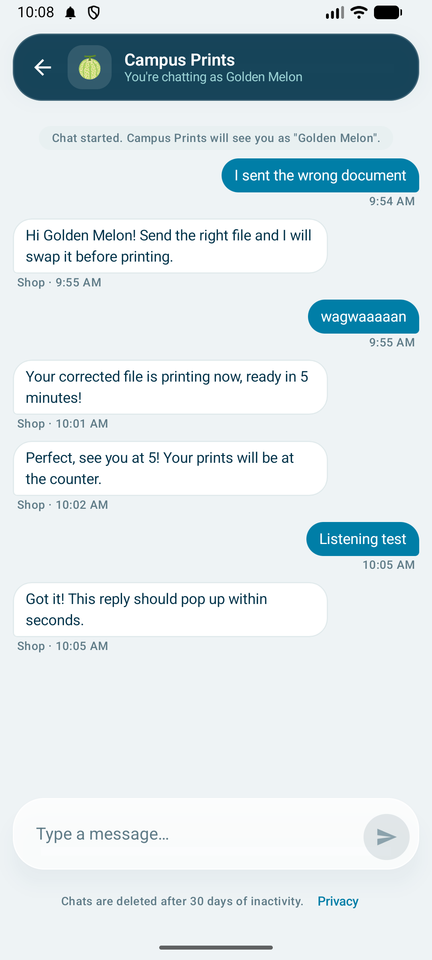
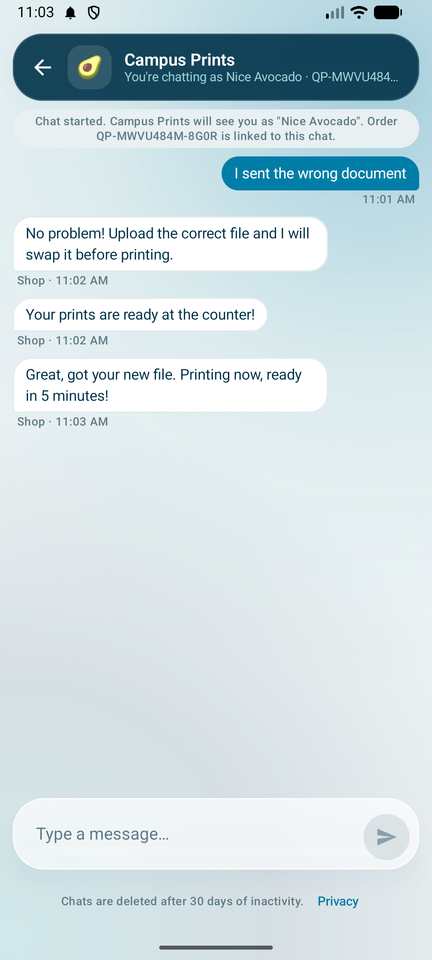
docs: refresh README and screenshots, polish glass UI

diff --git a/app/shop/[slug]/page.tsx b/app/shop/[slug]/page.tsx
@@ -23,6 +23,9 @@ import type { Shop, PriceBreakdown } from '@/types';
 const inputClass = "block w-full h-11 sm:h-10 rounded-xl border border-input bg-card px-3 text-sm focus:border-primary focus:ring-1 focus:ring-primary transition-shadow";
 const selectClass = "block w-full h-11 sm:h-10 rounded-xl border border-input bg-card px-3 text-sm focus:border-primary focus:ring-1 focus:ring-primary transition-shadow";
 
+/** The shop's background colour, slightly translucent so the ambient glass backdrop shows through. */
+const tint = (color: string) => `color-mix(in srgb, ${color} 78%, transparent)`;
+
 async function detectPdfPages(file: File): Promise<number> {
   if (!file.name.toLowerCase().endsWith('.pdf')) return 1;
   try {
@@ -209,7 +212,7 @@ export default function CustomerPortal() {
 
   if (page === 'done' && orderResult) {
     return (
-      <div className="light-brand fit-screen overflow-hidden flex items-center justify-center p-3" style={{ backgroundColor: shop.branding?.backgroundColor || '#fff' }}>
+      <div className="light-brand fit-screen overflow-hidden flex items-center justify-center p-3" style={{ backgroundColor: tint(shop.branding?.backgroundColor || '#ffffff') }}>
         <div className="page-enter max-w-sm w-full max-h-full overflow-y-auto text-center space-y-[clamp(0.5rem,1.8vh,1rem)] bg-card rounded-[2rem] p-[clamp(1rem,3vh,2rem)] shadow-[0_20px_50px_-12px_rgba(0,50,73,0.25)] border">
           <div className="h-[clamp(2.5rem,7vh,3.5rem)] aspect-square rounded-full bg-green-50 border border-green-100 flex items-center justify-center mx-auto">
             <Check className="h-1/2 w-1/2 text-green-600" />
@@ -253,7 +256,7 @@ export default function CustomerPortal() {
     ].filter(Boolean) as { icon: typeof Phone; label: string; href?: string }[];
 
     return (
-      <div className="fit-screen overflow-hidden flex flex-col p-3" style={{ backgroundColor: pageBg }}>
+      <div className="fit-screen overflow-hidden flex flex-col p-3" style={{ backgroundColor: tint(pageBg) }}>
         <div className="page-enter relative flex-1 min-h-0 overflow-hidden rounded-3xl bg-panel text-white flex items-center justify-center p-5">
           <div aria-hidden="true" className="pointer-events-none absolute -top-24 -right-24 h-80 w-80 rounded-full blur-3xl opacity-40" style={{ backgroundColor: brand }} />
           <div aria-hidden="true" className="pointer-events-none absolute -bottom-28 -left-16 h-72 w-72 rounded-full bg-[#80ced7]/20 blur-3xl" />
@@ -312,7 +315,7 @@ export default function CustomerPortal() {
   const stepIndex = STEPS.findIndex(([k]) => k === page);
 
   return (
-    <div className="light-brand fit-screen overflow-hidden flex flex-col p-3" style={{ backgroundColor: pageBg }}>
+    <div className="light-brand fit-screen overflow-hidden flex flex-col p-3" style={{ backgroundColor: tint(pageBg) }}>
       <style>{`.qp-shop button { border-radius: ${shop.branding?.buttonStyle === 'pill' ? '9999px' : shop.branding?.buttonStyle === 'square' ? '0' : '0.5rem'}; }`}</style>
       <div className="qp-shop w-full max-w-lg mx-auto flex-1 min-h-0 flex flex-col gap-3">
         <header className="page-enter relative flex-shrink-0 overflow-hidden rounded-3xl bg-panel text-white px-4 py-3 flex items-center gap-3">

diff --git a/app/globals.css b/app/globals.css
@@ -222,3 +222,47 @@ button:not(:disabled):active { transform: scale(0.98); }
 /* Keep the frost in dark mode (the flat rule above only removes decorative blurs/glows). */
 .dark .glass, .dark .glass-ink { -webkit-backdrop-filter: blur(18px); backdrop-filter: blur(18px); }
 @supports not (backdrop-filter: blur(1px)) { .glass { background-color: var(--card); } .glass-ink { background-color: var(--panel); } }
+
+/* ---------- Ambient backdrop (light mode): soft brand colour for the glass to refract ---------- */
+@keyframes drift-a { 0%, 100% { transform: translate(0, 0) scale(1); } 50% { transform: translate(6vw, 4vh) scale(1.08); } }
+@keyframes drift-b { 0%, 100% { transform: translate(0, 0) scale(1); } 50% { transform: translate(-5vw, -3vh) scale(1.06); } }
+html:not(.dark) body::before,
+html:not(.dark) body::after {
+  content: ""; position: fixed; z-index: -1; pointer-events: none; border-radius: 9999px; filter: blur(90px);
+}
+html:not(.dark) body::before {
+  width: 55vmax; height: 55vmax; top: -22vmax; right: -16vmax;
+  background: radial-gradient(circle at 40% 40%, rgb(0 126 167 / 0.30), rgb(154 209 212 / 0.22) 55%, transparent 70%);
+  animation: drift-a 26s ease-in-out infinite;
+}
+html:not(.dark) body::after {
+  width: 50vmax; height: 50vmax; bottom: -24vmax; left: -18vmax;
+  background: radial-gradient(circle at 60% 60%, rgb(154 209 212 / 0.38), rgb(0 50 73 / 0.10) 60%, transparent 72%);
+  animation: drift-b 32s ease-in-out infinite;
+}
+body { isolation: isolate; }
+
+/* ---------- Glass everywhere: big rounded cards become frosted panes (inputs stay solid) ---------- */
+html:not(.dark) .bg-card.rounded-3xl:not(.border-dashed),
+html:not(.dark) .bg-card.rounded-2xl:not(.border-dashed),
+html:not(.dark) .bg-card.rounded-xl:not(input):not(select):not(textarea):not(.border-dashed) {
+  background-color: color-mix(in srgb, var(--card) 70%, transparent);
+  -webkit-backdrop-filter: blur(20px) saturate(1.7);
+  backdrop-filter: blur(20px) saturate(1.7);
+  border-color: rgb(255 255 255 / 0.6);
+  box-shadow: inset 0 1px 0 rgb(255 255 255 / 0.75), 0 8px 28px -14px rgb(0 50 73 / 0.22);
+}
+.dark .bg-card.rounded-3xl, .dark .bg-card.rounded-2xl { background-color: color-mix(in srgb, var(--card) 92%, transparent); }
+
+/* Richer glass: brighter specular edge + slightly stronger frost. */
+html:not(.dark) .glass {
+  background-color: color-mix(in srgb, var(--card) 64%, transparent);
+  -webkit-backdrop-filter: blur(24px) saturate(1.8);
+  backdrop-filter: blur(24px) saturate(1.8);
+  box-shadow: inset 0 1px 0 rgb(255 255 255 / 0.85), inset 0 -1px 0 rgb(255 255 255 / 0.25), 0 12px 34px -14px rgb(0 50 73 / 0.28);
+}
+html:not(.dark) .glass-strong { background-color: color-mix(in srgb, var(--card) 80%, transparent); }
+@media (prefers-reduced-motion: reduce) { html:not(.dark) body::before, html:not(.dark) body::after { animation: none; } }
+
+/* Dashed drop zones: frosted, but keep their dashed outline. */
+html:not(.dark) .bg-card.border-dashed { background-color: color-mix(in srgb, var(--card) 70%, transparent); -webkit-backdrop-filter: blur(20px) saturate(1.7); backdrop-filter: blur(20px) saturate(1.7); }

diff --git a/components/chat/customer-chat.tsx b/components/chat/customer-chat.tsx
@@ -105,6 +105,13 @@ export function CustomerChat({ shop, orderNumber, customerName, defaultOpen = fa
     }
   };
 
+  // A link like /shop/<slug>?chat=open opens the chat straight away.
+  useEffect(() => {
+    if (new URLSearchParams(window.location.search).get('chat') !== 'open') return;
+    const t = setTimeout(() => setOpen(true), 0);
+    return () => clearTimeout(t);
+  }, []);
+
   // Close the popup with Escape.
   useEffect(() => {
     if (!open) return;

diff --git a/README.md b/README.md
@@ -1,46 +1,62 @@
 # QuickPrint Web
 
-**A print-shop management and customer ordering portal.** QuickPrint helps cyber cafés,
-print shops, universities, and libraries manage incoming print jobs from upload through
-pickup.
+**A print-shop management and customer ordering portal.** QuickPrint helps cyber cafés, print shops, universities and libraries take print jobs from customers' phones, from upload through pickup, and chat with those customers.
 
-Built with Next.js 16, React 19, and Tailwind CSS 4. Customers can also use the
-[QuickPrint Android app](https://github.com/Brian-Kareithi/QuickPrint-Android), which talks to the same backend.
+Built with Next.js 16, React 19 and Tailwind CSS 4. Deployed at **[quickprint-ten.vercel.app](https://quickprint-ten.vercel.app)**.
+
+| Part | Repository | What it is |
+|---|---|---|
+| **Website** (this repo) | [Brian-Kareithi/QuickPrint](https://github.com/Brian-Kareithi/QuickPrint) | Customer portal, shop dashboard, admin, Terms & Privacy (Vercel) |
+| API | [Thee-Entity/QuickPrint-Backend](https://github.com/Thee-Entity/QuickPrint-Backend) | NestJS REST + Socket.IO (Railway) |
+| Android app | [Brian-Kareithi/QuickPrint-Android](https://github.com/Brian-Kareithi/QuickPrint-Android) | Customer app: shop code / QR, upload, order, chat, reply notifications |
 
 ## Screenshots
 
-**Customer upload portal** (`/shop/[slug]`). The chat button sits at the bottom right and opens the chat as a popup.
+**Landing page and sign-in**
 
-<img src="docs/screenshots/shop.png" alt="Customer shop portal" width="800">
+<img src="docs/screenshots/landing.png" alt="Landing page" width="420"> <img src="docs/screenshots/login.png" alt="Sign in" width="420">
 
-**Customer chats** (`/dashboard/messages`). Each customer gets a fruity nickname, and linked orders show above the conversation.
+**Customer upload portal** (`/shop/[slug]`) and the **chat popup** (`/shop/[slug]?chat=open`). Frosted glass over a soft brand-colour backdrop.
 
-| Light | Dark (flat, no gradients) |
-|:---:|:---:|
-| <img src="docs/screenshots/inbox-light.png" alt="Messages inbox, light" width="420"> | <img src="docs/screenshots/inbox-dark.png" alt="Messages inbox, dark" width="420"> |
+<img src="docs/screenshots/shop.png" alt="Customer shop portal" width="420"> <img src="docs/screenshots/chat-popup.png" alt="Customer chat popup" width="420">
 
-**The same chat from the customer's Android phone**
+**Shop dashboard** (`/dashboard`) and **orders** (`/dashboard/orders`)
 
-<img src="docs/screenshots/android-chat.png" alt="Android chat, light" width="200"> <img src="docs/screenshots/android-chat-dark.png" alt="Android chat, dark" width="200">
+<img src="docs/screenshots/dashboard.png" alt="Shop dashboard" width="420"> <img src="docs/screenshots/orders.png" alt="Orders" width="420">
 
-**Terms & Privacy** (`/terms`)
+**Customer chats** (`/dashboard/messages`). Each customer gets a fruity nickname; the conversation has a floating glass header and composer.
 
-<img src="docs/screenshots/terms.png" alt="Terms and privacy page" width="640">
+<img src="docs/screenshots/inbox.png" alt="Messages inbox" width="860">
+
+**The same chat from the customer's Android phone**, and the **Terms & Privacy** page (`/terms`)
+
+<img src="docs/screenshots/android-chat.png" alt="Android chat" width="200"> <img src="docs/screenshots/terms.png" alt="Terms and privacy page" width="620">
 
 ## Features
 
-- Customer file-upload portal with shop-specific branding, print options, pricing, and order tracking
-- Live print queue and searchable order management
-- Payment setup for cash, M-Pesa, Airtel Money, and bank transfers, with payment status tracking
-- Shop QR codes, downloadable artwork, and printable posters
-- Dashboard analytics for revenue, orders, peak hours, and printer utilization
-- Shop settings, team access, branding, and platform administration
-- Customer ↔ shop chat: customers chat as guests with a fun nickname (for example *Cute Pineapple 🍍*); owners and cashiers reply from a live inbox with unread badges
-- Terms & Privacy page covering data collection, retention and rights under the Kenya Data Protection Act 2019
-- Flat dark mode for the signed-in portal (no gradients or glows)
-- Live message alerts: a dashboard-wide listener shows a toast with each new customer message (click to open the chat), refreshes the Messages badge instantly, and can send desktop notifications when the tab is in the background
-- Unread count in the browser tab: `(3) QuickPrint` plus a red badge on the tab icon (owners: unread chats + notifications; customers: unread shop replies)
-- Customer chat opens as a popup with a floating header and composer; light "liquid glass" surfaces, subtle animations and loading skeletons that mirror each page's layout
+### For customers
+- **Send files from your phone, no account needed.** Open a shop by scanning its QR poster, from its link, or (when signed in) by entering its 5-character shop code on `/send-files`.
+- Shop-branded upload portal: drag-and-drop or tap to upload, per-file print options (pages, copies, colour, paper, layout, quality, binding, finishing), a live price breakdown, and cash, M-Pesa or Airtel payment instructions with your order number.
+- **Chat with the shop** from a popup: cancelled your request or sent the wrong file? One-tap messages, a fun nickname such as *Cute Pineapple 🍍* instead of your name, and your order linked automatically. A toast shows the shop's reply if the chat is closed.
+- **Terms & Privacy** page (`/terms`): what is collected, who sees it, how long it's kept, and your rights under the Kenya Data Protection Act 2019. Linked from the site footer, the upload box and the Android app.
+- Optional customer account with order history (`/my-orders`).
+
+### For shop owners and cashiers
+- Live print queue and searchable order management with payment tracking.
+- **Messages inbox** (`/dashboard/messages`): all customer chats with fruit nicknames and avatars, Open/Resolved filters, the linked order's status, total and files, quick replies, and resolve/reopen.
+- **Live message alerts:** a dashboard-wide listener shows a toast with each new customer message on any page (click to open the chat), updates the **Messages** badge instantly, and sends desktop notifications while the tab is in the background (after you click *Turn on desktop alerts*).
+- **Unread count in the browser tab:** `(3) QuickPrint` plus a red number on the tab icon.
+- Shop QR codes, downloadable artwork and a printable poster with the shop code.
+- Analytics for revenue, orders, peak hours and printer utilisation.
+- Shop settings (including accepted file types), team/cashier access, branding, pricing and payment details. Platform administration for super admins.
+
+### Design system
+- QuickPrint palette (`#003249` ink, `#007ea7` ocean, `#9ad1d4` frost) with Geist and Instrument Serif type.
+- **Liquid glass:** frosted, translucent surfaces (`.glass`, `.glass-ink`, and every rounded card) with a bright top-edge highlight, floating over a soft, slowly drifting brand-colour backdrop (light mode). Used on the sidebar, header, cards, chat popup, floating chat header and composer, toasts and footer.
+- **Flat dark mode** for the signed-in portal (follows the system, or use the toggle): a navy-charcoal palette with no gradients or glows. The Android app uses the same values.
+- **Subtle motion:** page enter, staggered list fade-ins, chat bubbles that pop in, badges that bump, a chat popup that springs open. Everything is disabled under `prefers-reduced-motion`.
+- **Loading skeletons** that mirror each page's real layout (shell, dashboard, lists, tables, charts, queue, messages, chat, shop portal), with a shimmer in light mode and a flat pulse in dark mode.
+- Responsive from small phones to wide desktops: chat becomes a full-height sheet on phones, the inbox collapses to list then conversation, and the sidebar becomes a drawer.
 
 ## Quick start
 
@@ -55,7 +71,7 @@ NEXT_PUBLIC_API_URL=http://localhost:4000/api
 NEXT_PUBLIC_APP_URL=http://localhost:3000
 ```
 
-Start the development server:
+Start the development server (run the [API](https://github.com/Thee-Entity/QuickPrint-Backend) on port 4000 first):
 
 ```bash
 npm run dev
@@ -67,10 +83,17 @@ Open [http://localhost:3000](http://localhost:3000).
 
 | Variable | Purpose | Default |
 |----------|---------|---------|
-| `NEXT_PUBLIC_API_URL` | Backend base URL. The client adds `/api` if it is not present. | `http://localhost:4000/api` |
+| `NEXT_PUBLIC_API_URL` | Backend base URL. The client adds `/api` if it is not present. Socket.IO connects to the same host. | `http://localhost:4000/api` |
 | `NEXT_PUBLIC_APP_URL` | Public app URL embedded in shop QR codes. Set this to a domain or LAN address customers can reach. | Current browser origin |
 
-In production, configure `NEXT_PUBLIC_APP_URL` to the deployed public address before generating shop QR codes. `localhost` only works on the machine running the app.
+In production, set `NEXT_PUBLIC_APP_URL` to the deployed public address before generating shop QR codes. `localhost` only works on the machine running the app. Production values (Vercel → Project → Settings → Environment Variables): `NEXT_PUBLIC_API_URL=https://quickprint-backend-production.up.railway.app/api`, `NEXT_PUBLIC_APP_URL=https://quickprint-ten.vercel.app`.
+
+## How chat works on the web
+
+- **Customers:** `components/chat/customer-chat.tsx` starts a chat on the first message and stores the private chat key in `localStorage` (`qp-chat:<shopId>`), so returning customers continue the same conversation. Updates arrive over Socket.IO (`/chat` namespace), with a 15-second polling fallback.
+- **Shops:** `components/chat/chat-listener.tsx` runs once per dashboard session with the signed-in user's token. It shows toasts and desktop notifications and pings the Messages badge. The inbox page has its own live connection for the open conversation. `lib/chat.ts` tracks which conversation is open (`chatPresence`) so you aren't alerted about the chat you're reading.
+- **Tab badge:** `lib/use-tab-badge.ts` prefixes the page title with the unread count and draws the number on the tab icon. It re-applies itself when Next.js changes the title on navigation.
+- **Toasts:** `components/toaster.tsx` provides `toast({ title, body, icon, onClick })` from anywhere. It's mounted once in `app/layout.tsx`.
 
 ## Application routes
 
@@ -81,35 +104,58 @@ In production, configure `NEXT_PUBLIC_APP_URL` to the deployed public address be
 | `/` | Product landing page |
 | `/auth/login` | Sign in |
 | `/auth/register` | Create an account |
-| `/shop/[slug]` | Shop-branded customer upload and ordering portal, with a chat button |
-| `/terms` | Terms & Privacy Policy (linked from the site footer and the Android app) |
+| `/shop/[slug]` | Shop-branded customer upload and ordering portal, with the chat popup (`?chat=open` opens it straight away) |
+| `/send-files` | Signed-in customers: connect to a shop with its 5-character code |
 | `/my-orders` | Customer order history |
+| `/terms` | Terms & Privacy Policy (linked from the site footer and the Android app; `#chat` for the chat section) |
 
 ### Shop dashboard
 
 | Route | Description |
 |-------|-------------|
-| `/dashboard` | Shop overview and onboarding checklist |
+| `/dashboard` | Shop overview, onboarding checklist and the open/closed switch for new orders |
 | `/dashboard/orders` | Search and manage orders, including payment status |
 | `/dashboard/messages` | Customer chats inbox (`?c=<id>` opens a specific chat; offers to turn on desktop alerts) |
 | `/dashboard/queue` | Print queue and job status updates |
-| `/dashboard/analytics` | Revenue, order, peak-hour, and utilization charts |
+| `/dashboard/analytics` | Revenue, order, peak-hour and utilisation charts |
 | `/dashboard/payments` | Configure customer payment instructions |
-| `/dashboard/qrcode` | Customer link, QR downloads, and printable poster |
+| `/dashboard/qrcode` | Customer link, QR downloads and printable poster |
 | `/dashboard/branding` | Shop theme and branding |
 | `/dashboard/pricing` | Per-item print pricing |
-| `/dashboard/settings` | Shop information and settings |
+| `/dashboard/settings` | Shop information and accepted file types |
 | `/dashboard/team` | Team and cashier access |
+
+Cashiers see Print Queue, Orders, Messages and QR Code.
 
 ### Administration
 
 | Route | Description |
 |-------|-------------|
-| `/admin` | Platform administration |
-| `/admin?tab=shops` | Shop management |
-| `/admin?tab=retention` | Data retention controls |
+| `/admin` | Platform overview |
+| `/admin/users` | All users |
+| `/admin/shops` | Shops and owners |
+| `/admin/activity` | Activity log |
+| `/admin/system` | System health and data retention |
 
-Other routes include `/notifications` for the notification center.
+Other routes include `/notifications` (notification centre) and `/profile`.
+
+## Project structure
+
+```
+app/                     Routes (App Router): shop portal, dashboard, admin, terms, auth
+components/
+├── app-shell.tsx        Glass sidebar + header, nav badges, tab badge
+├── chat/                customer-chat (popup), chat-listener (alerts), message-list (bubbles)
+├── toaster.tsx          Global toasts
+├── skeleton.tsx         Layout-matching loading skeletons
+└── ui/                  Button, Card (glass), Badge, inputs…
+lib/
+├── api.ts               REST client (including chat endpoints)
+├── chat.ts              Socket helper, chat key storage, nicknames' colours, quick replies
+├── use-tab-badge.ts     Unread count in the browser tab
+└── …                    Auth, payments, theme, utils
+app/globals.css          Palette, flat dark mode, glass, motion and skeleton utilities
+```
 
 ## Development commands
 
@@ -127,5 +173,4 @@ docker build -t quickprint-web .
 docker run --env-file .env.local -p 3000:3000 quickprint-web
 ```
 
-The browser-tab and iOS home-screen icons are generated by `app/icon.tsx` and
-`app/apple-icon.tsx`.
+The browser-tab and iOS home-screen icons are generated by `app/icon.tsx` and `app/apple-icon.tsx`. The Android app uses the same printer mark.
